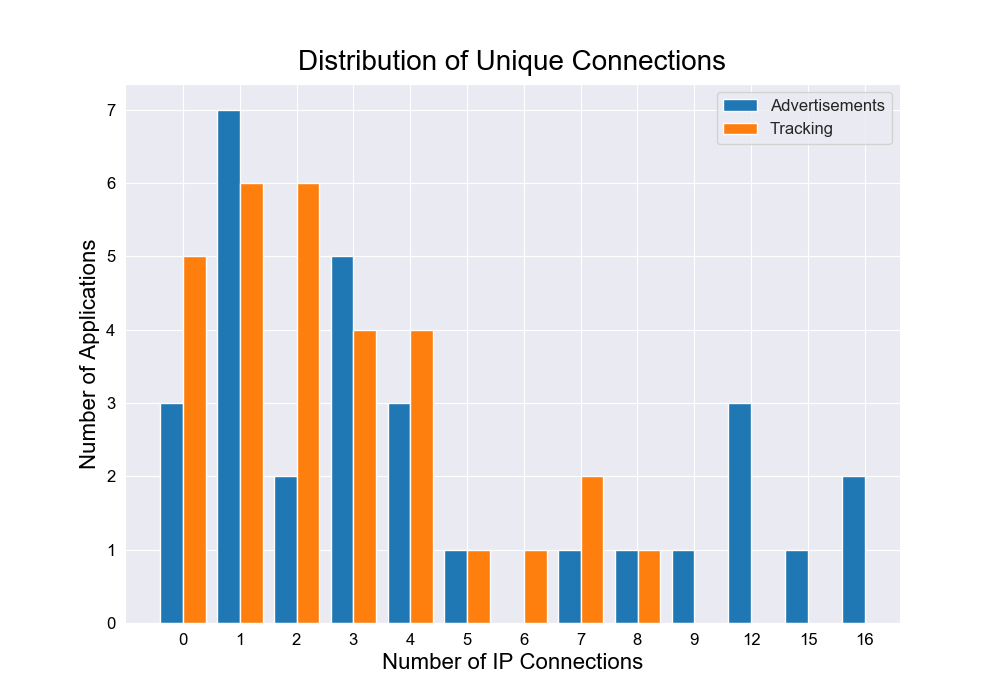
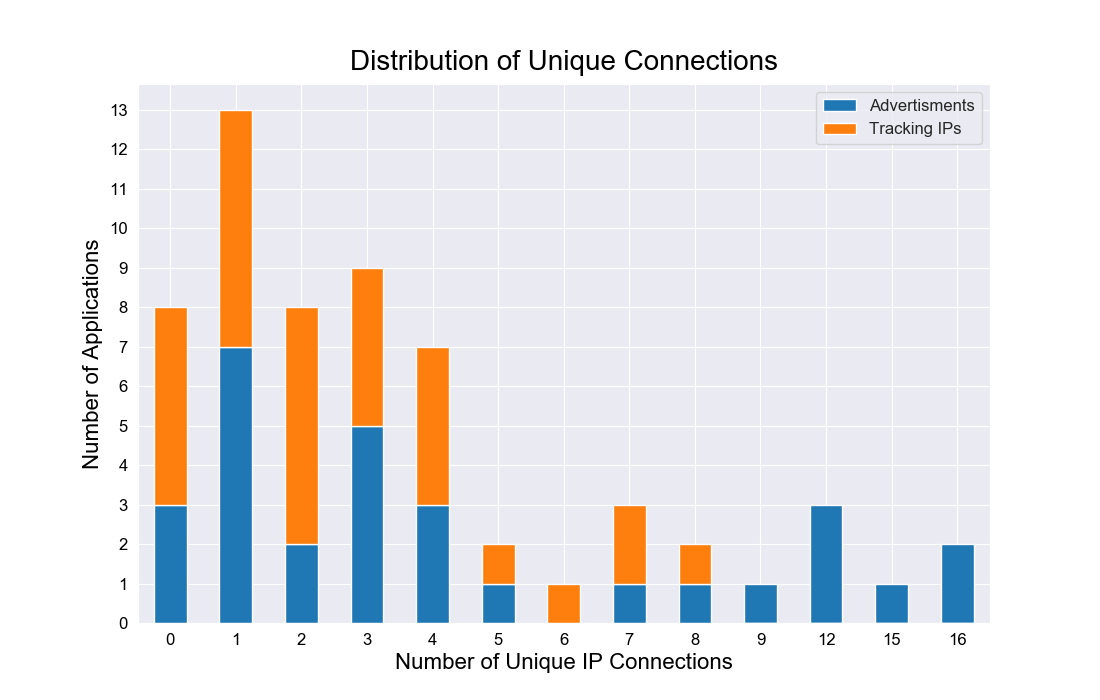
ugh more fixes

diff --git a/pandas_analysis.py b/pandas_analysis.py
@@ -55,23 +55,16 @@ def graph_ad_ips(path):
     ad_ips = df.groupby('Ad IPs')['Filename'].count()
     tracking_ips = df.groupby('Tracking Ips')['Filename'].count()
 
-    data_ips = {'Ad IPs': ad_ips, 'Tracking IPs': tracking_ips}
+    data_ips = {'Advertisments': ad_ips, 'Tracking IPs': tracking_ips}
     all_ips = p.DataFrame(data=data_ips)
 
-    fig, ax = plt.subplots(figsize=(10, 7))
-
-    r1 = np.arange(len(all_ips.index))
-    r2 = [x + 0.4 for x in r1]
-
-    plt.bar(r1, all_ips['Ad IPs'], width=0.4, label = "Advertisements")
-    plt.bar(r2, all_ips['Tracking IPs'], width=0.4, label = "Tracking")
-
-    ax.set_xticklabels(all_ips.index) 
-    plt.xticks(np.arange(len(all_ips.index)), **label_font)
-    plt.xticks([r + 0.20 for r in range(len(all_ips))], all_ips.index)
+    ax = all_ips.plot(kind='bar', stacked=True, figsize=(11, 7), rot=0)
+ 
+    ax.yaxis.set_major_locator(plt.FixedLocator(range(0,len(all_ips)+1)))
+    plt.xticks(**label_font)
     plt.yticks(**label_font)
     plt.title("Distribution of Unique Connections", **title_font)
-    plt.xlabel("Number of IP Connections", **axis_font)
+    plt.xlabel("Number of Unique IP Connections", **axis_font)
     plt.ylabel("Number of Applications", **axis_font)
     plt.legend(loc=1, fontsize=12)
     plt.savefig("./graphs/num_ad_ips.png")
